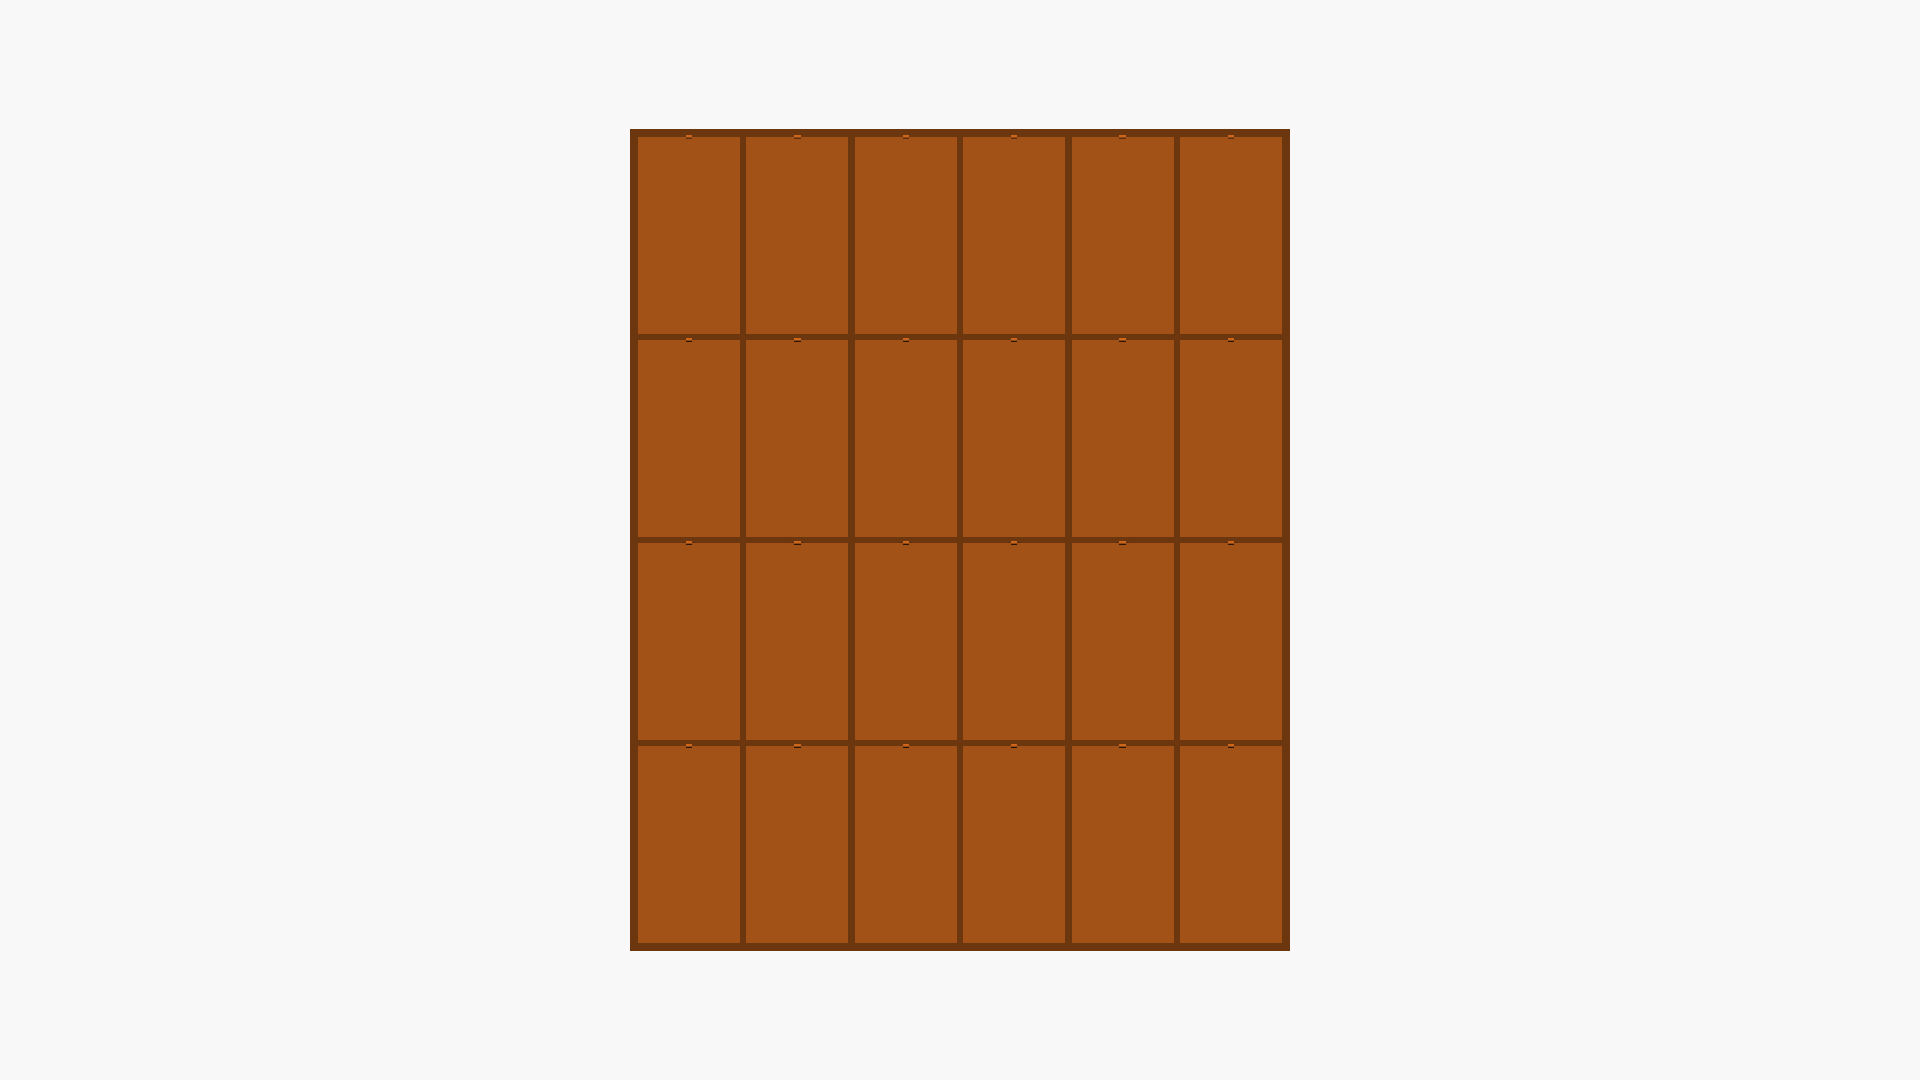
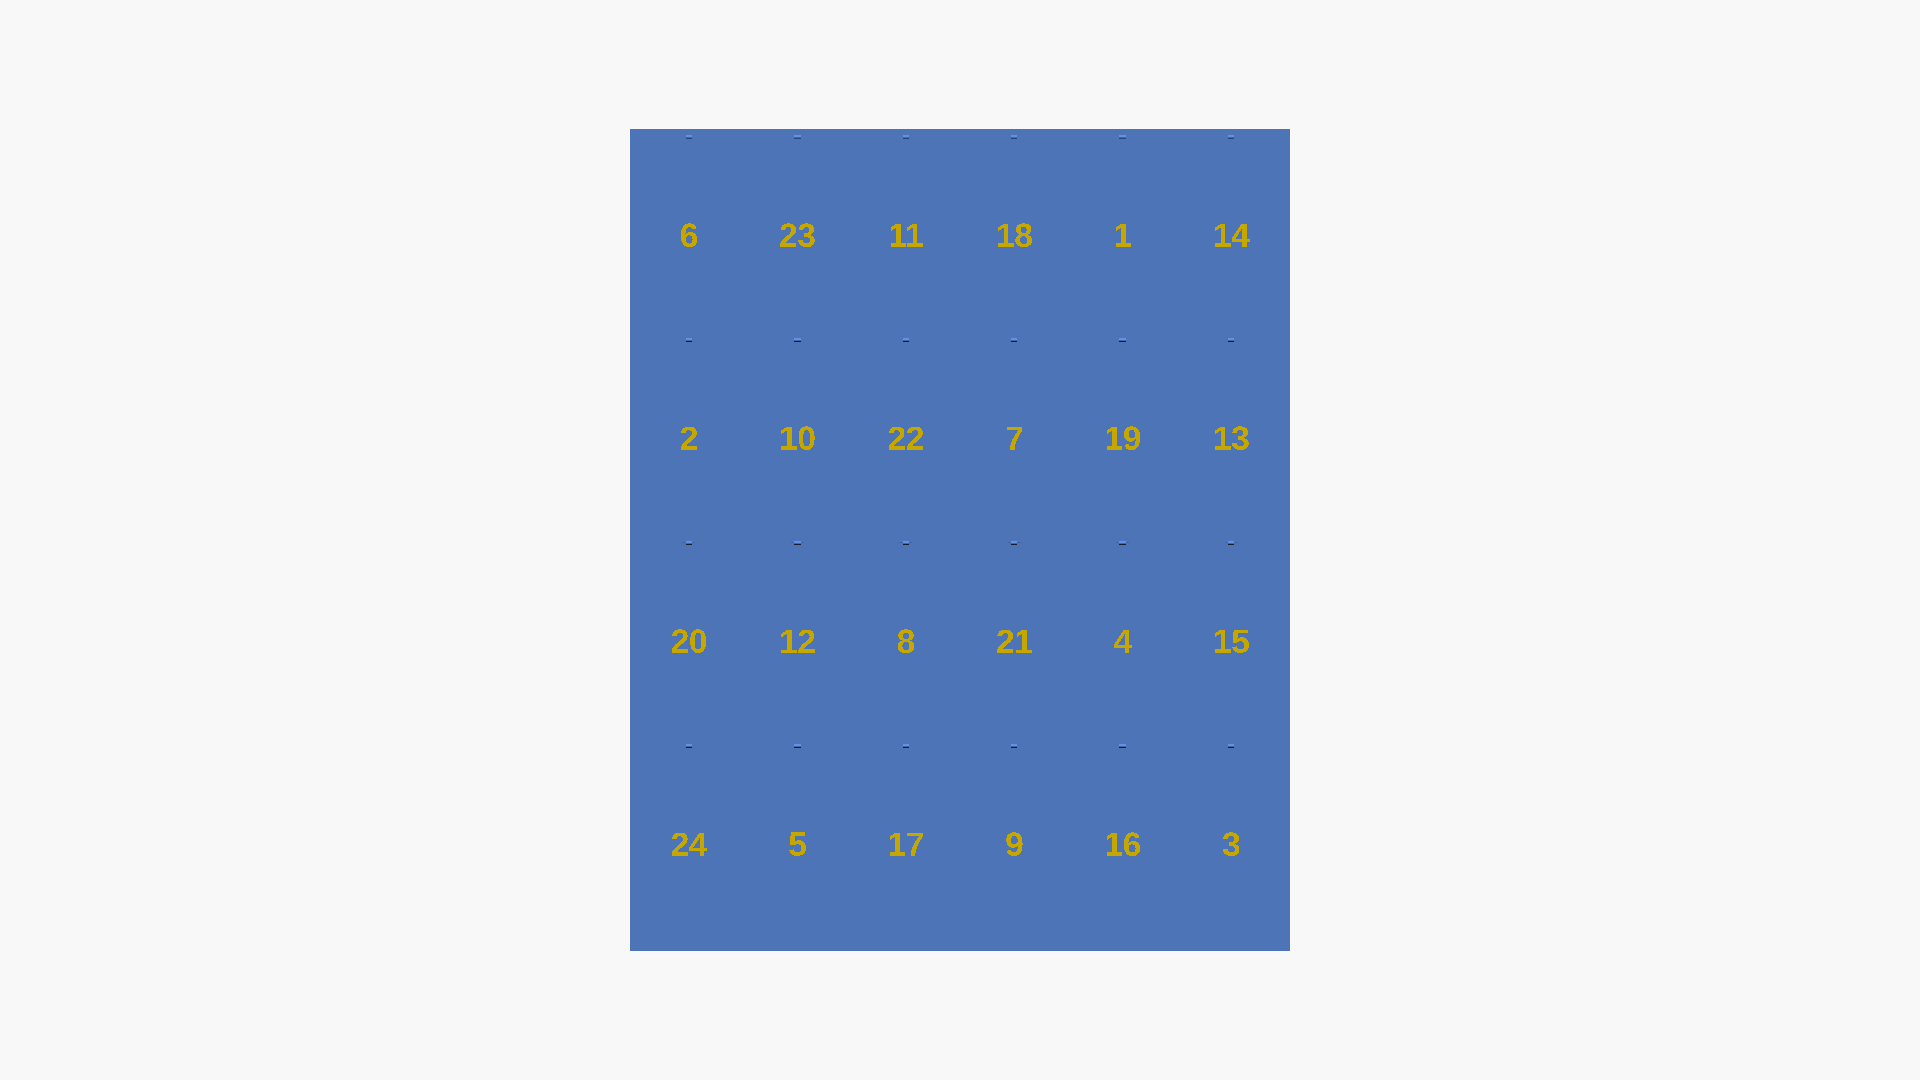
fix: update colors

Changed region(s): [[0.3125, 0.1222, 0.6875, 0.8861]]

diff --git a/prompts/claude.md b/prompts/claude.md
@@ -282,3 +282,36 @@ Specify the exact issue and solution: "The numbers in the 'all_doors' print layo
 </details>
 
 ---
+
+> please make the prompts/claude.md file more readable. e.g add a hr after each ? section. also '?' is not a valid github markdown section. please use a better one like collapsible box or info box if there is such a thing. also update CLAUDE.md file in the root to use this new format
+
+<details>
+<summary>💡 How to improve this prompt</summary>
+
+Be more specific about the desired format: "Convert prompts/claude.md to use HTML collapsible sections and horizontal rules for better readability. Replace all '?' lines with `<details><summary>💡 How to improve this prompt</summary>[content]</details>` blocks. Add `---` horizontal rules after each entry for visual separation. Update the Audit Protocol section in CLAUDE.md (around line 237) to document this new format with examples. The collapsible sections work in GitHub markdown and make the file much easier to scan." This provides exact syntax, file locations, and explains the benefits of the change.
+
+</details>
+
+---
+
+> please use the same colors for case_all than for case_box. namely I like blue and gold instead of plain brown. bad: projects/advent_calendar/previews/case_all_perspective.png good: projects/advent_calendar/previews/case_door_18_perspective.png
+
+<details>
+<summary>💡 How to improve this prompt</summary>
+
+Specify the exact color change needed with technical details: "In case.scad, change the colors in the 'all' render mode (lines 56 and 72) from 'SaddleBrown' and 'Chocolate' to 'CornflowerBlue' to match the individual door renders. However, applying color() wrapper on calendar_door() call overrides internal Gold color for numbers. Instead, apply color('CornflowerBlue') directly to each component (cube, cylinder, snap catch) inside the calendar_door() module (lines 197-209) while keeping color('Gold') on the number text. This ensures both colors display correctly." This provides the exact issue (color precedence) and the correct solution (apply colors per component).
+
+</details>
+
+---
+
+> perfect now please make sure that the images in the presentation are up to date from this preview list
+
+<details>
+<summary>💡 How to improve this prompt</summary>
+
+Be more specific about which images and where: "Copy the latest preview images from projects/advent_calendar/previews/ to presentation/images/ directory. Specifically copy case_all_perspective.png, case_all_front.png, case_all_top.png, case_all_left.png, and case_all_wireframe.png, renaming them to remove the 'all_' prefix to match the presentation's existing image references. Create the presentation/images/ directory if it doesn't exist. This ensures the presentation displays the updated blue and gold color scheme." This provides exact source and destination paths, file names, and explains the renaming requirement.
+
+</details>
+
+---
